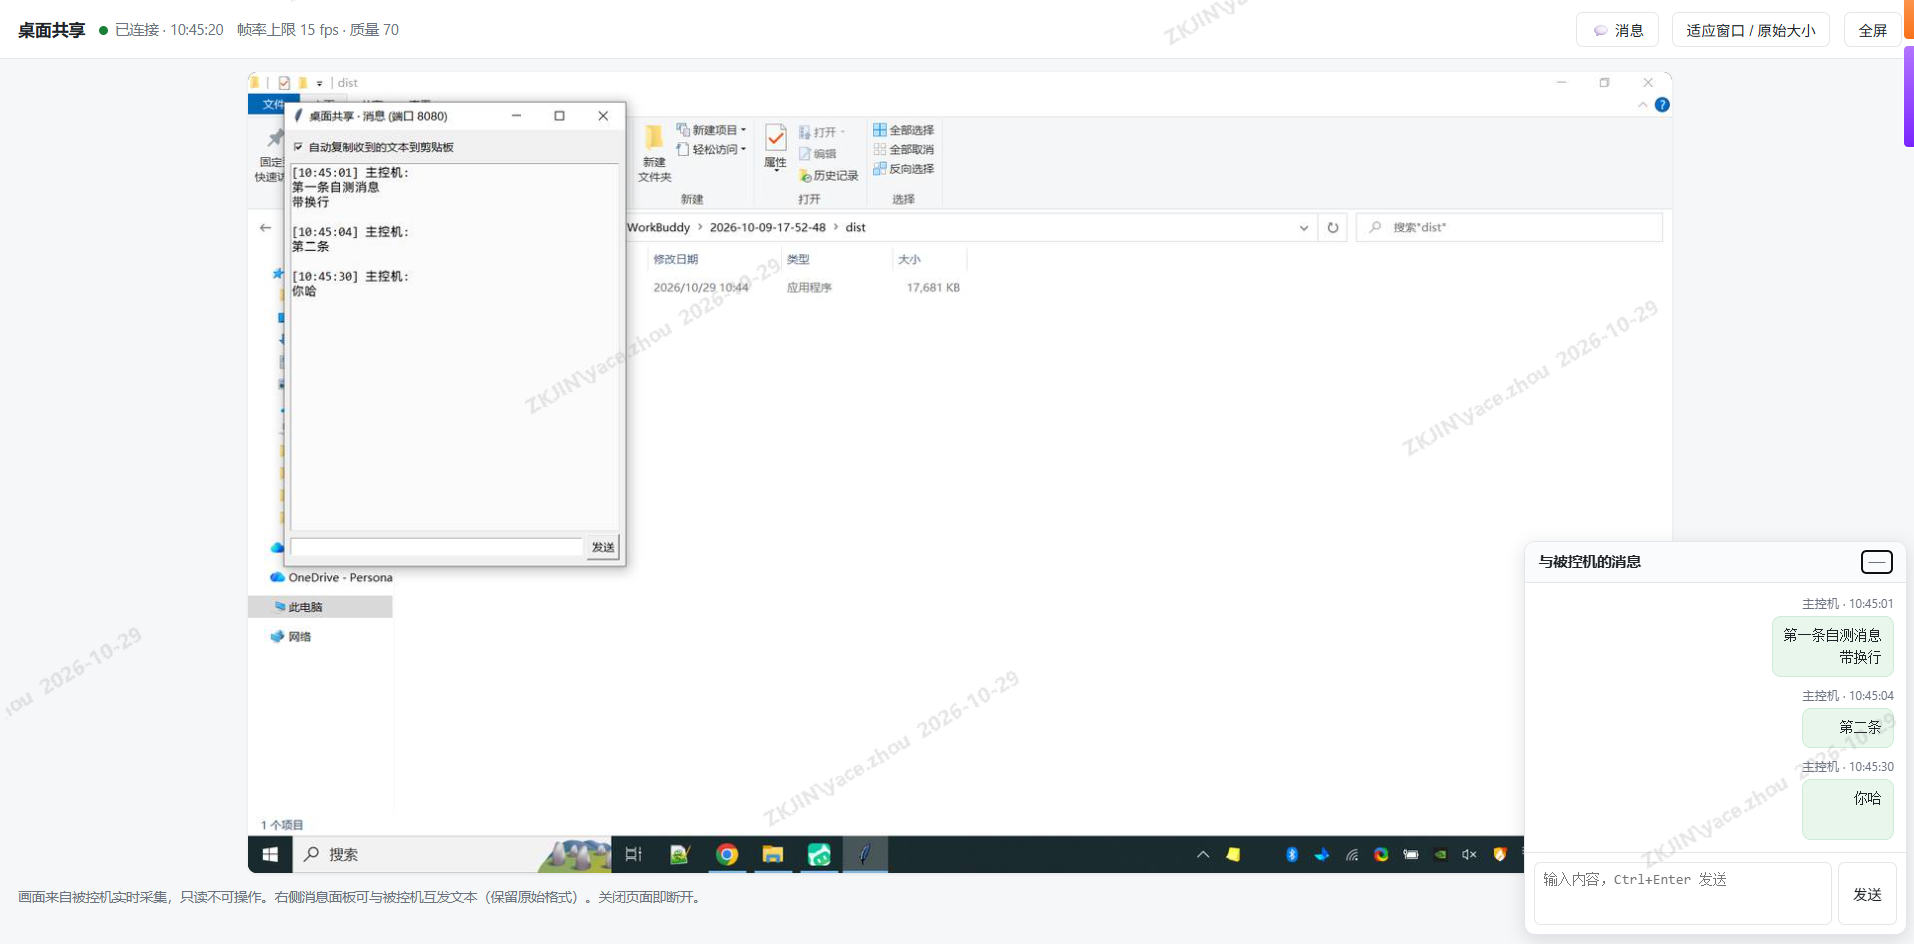
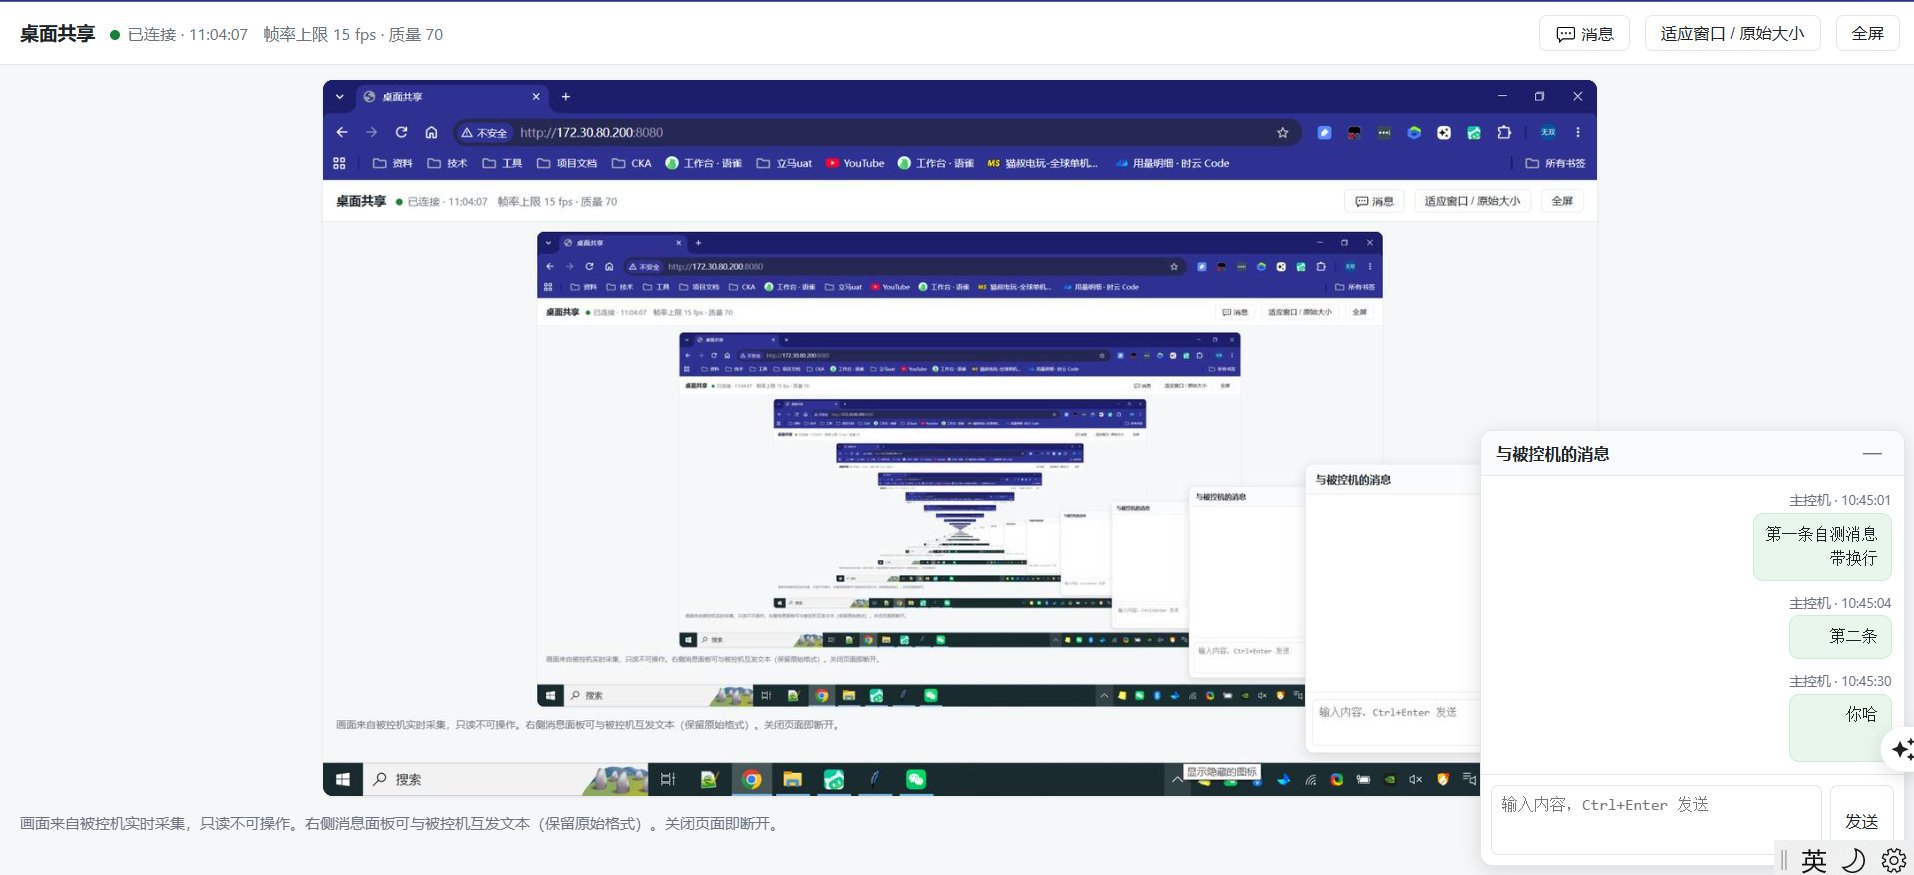
docs: 截图更换为无水印版本（套娃画面）

diff --git a/README.md b/README.md
@@ -19,7 +19,8 @@ GitHub：https://github.com/ztommyc/web-screen-share ｜ Gitee 镜像：https://
 
 ## 界面截图
 
-真实使用场景：浏览器实时画面（被控机桌面 + 置顶消息小窗）+ 右下角主控机消息面板，换行/缩进原样保留。
+真实使用场景：浏览器实时画面 + 右下角主控机消息面板，换行/缩进原样保留。
+（画面里浏览器正在共享显示自己的画面，所以是"套娃"效果 🙂）
 
 ![真实场景：浏览器实时画面 + 双向消息](docs/screenshots/real-scene.png)
 
